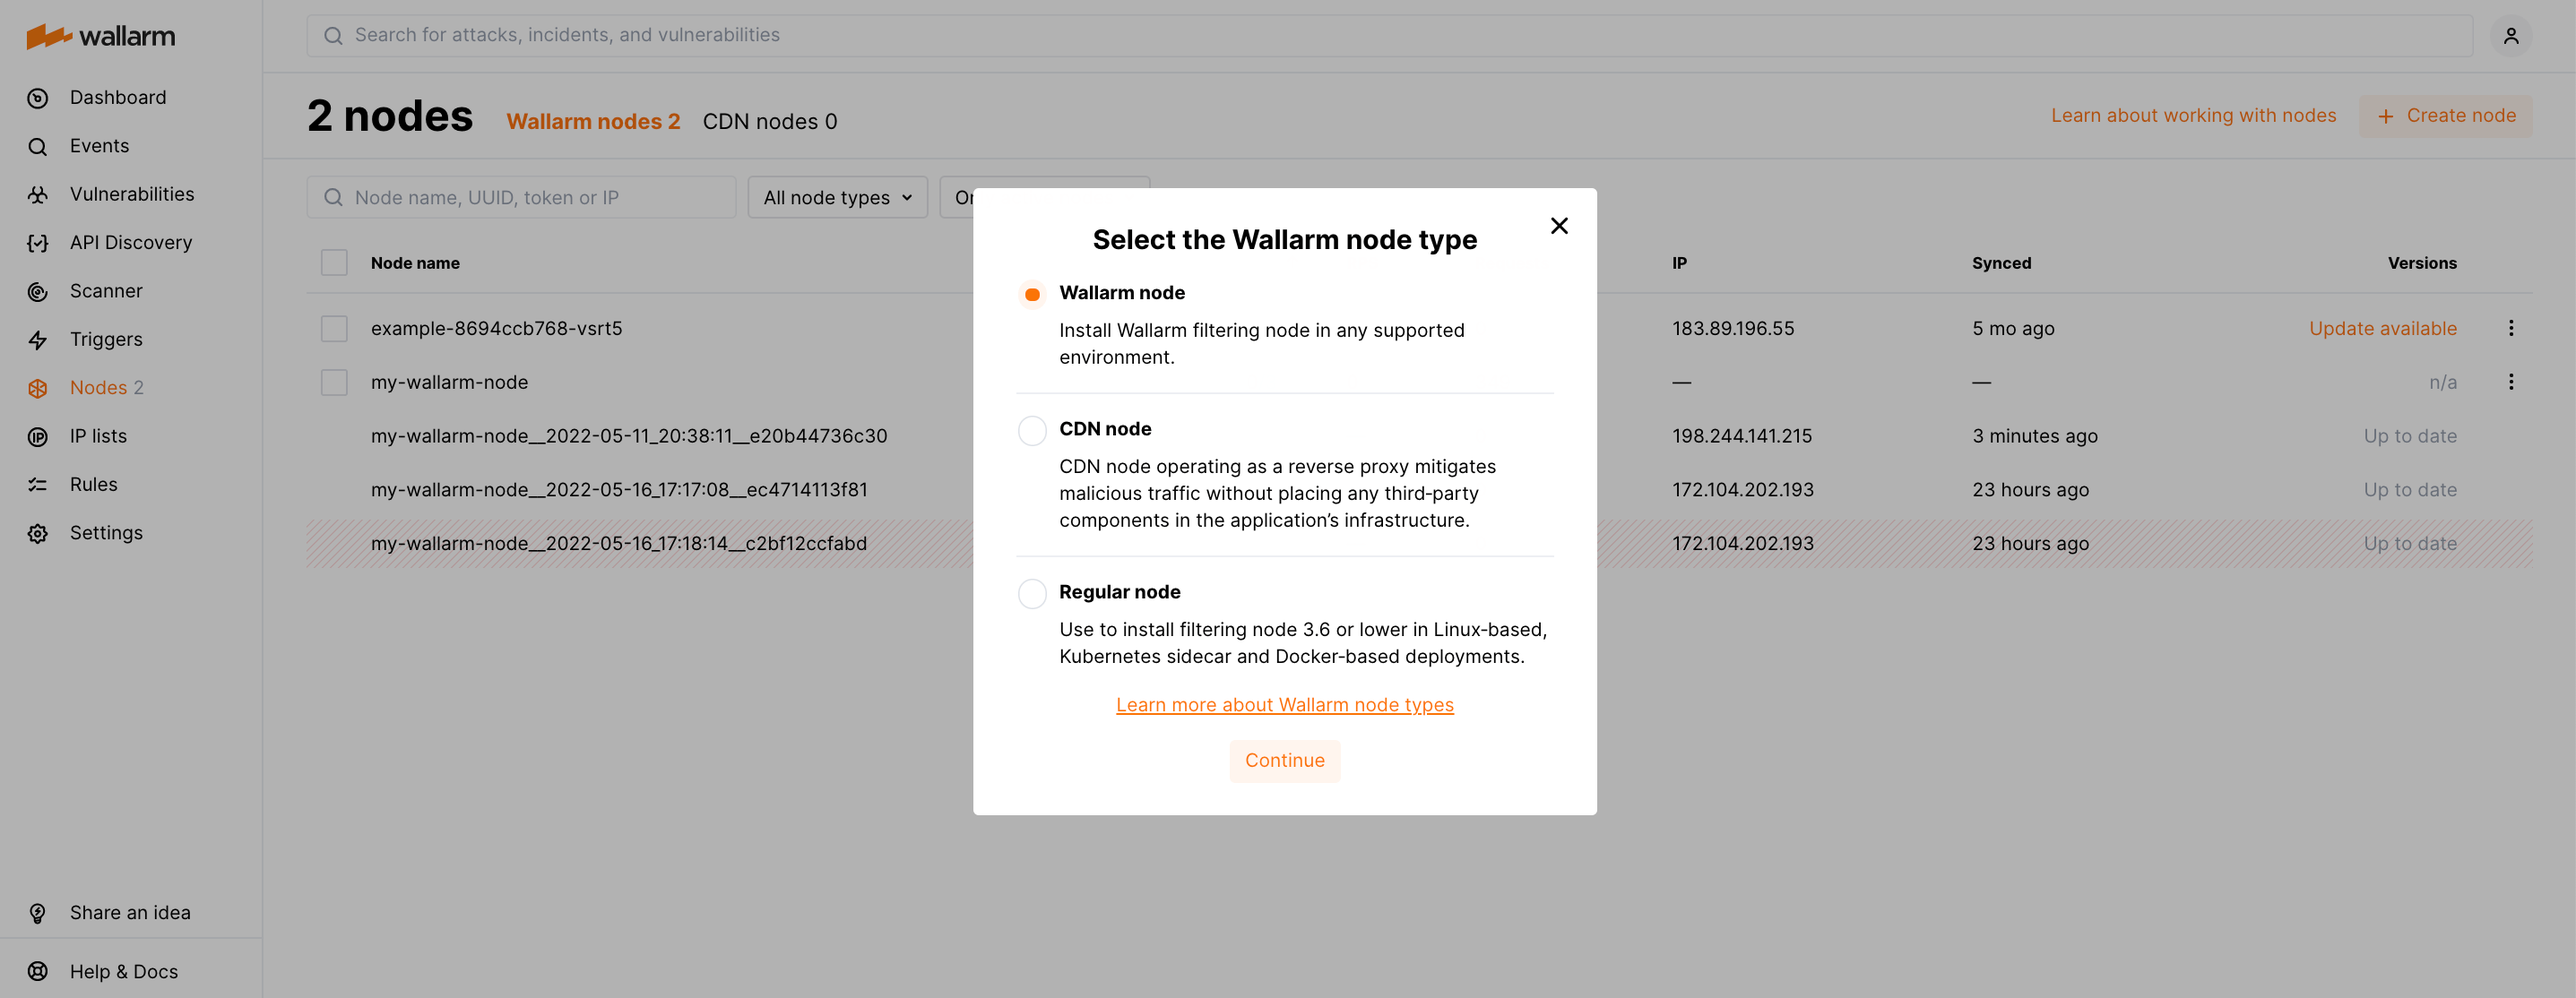
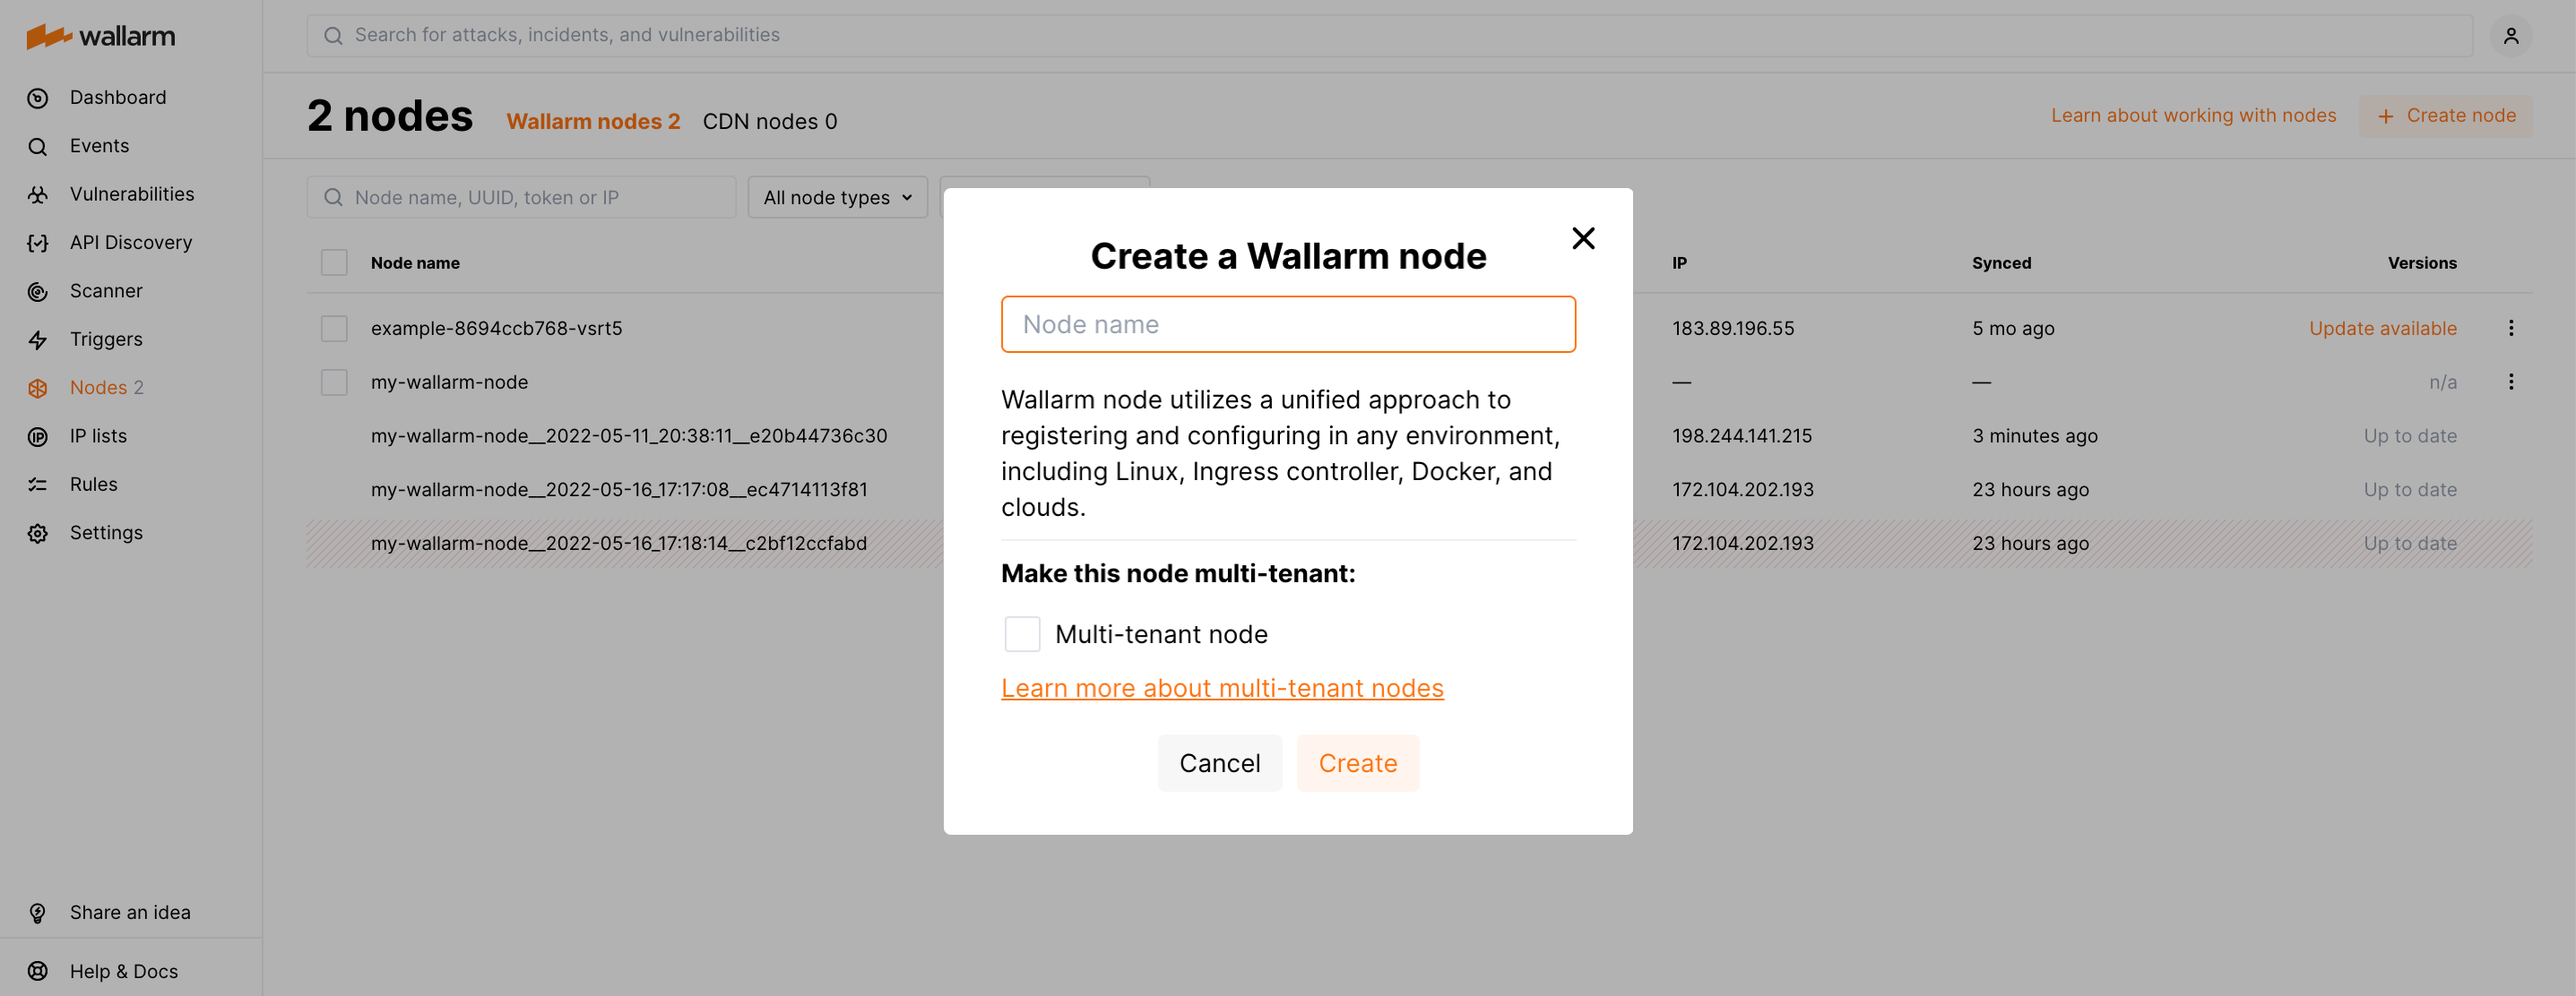
DOCS-1777 Remove regular node from creation dialog

diff --git a/docs/latest/user-guides/nodes/nodes.md b/docs/latest/user-guides/nodes/nodes.md
@@ -26,9 +26,10 @@ Wallarm node UI management options:
 
 To create a Wallarm node:
 
-1. Open Wallarm Console → **Nodes** in the [EU Cloud](https://my.wallarm.com/nodes) or [US Cloud](https://us1.my.wallarm.com/nodes) and create the node of the **Wallarm node** type.
+1. Open Wallarm Console → **Nodes** in the [EU Cloud](https://my.wallarm.com/nodes) or [US Cloud](https://us1.my.wallarm.com/nodes) and click **Create node**.
 
     ![!Wallarm node creation](../../images/user-guides/nodes/create-cloud-node.png)
+1. Set the node name and click **Create**.
 1. Copy the generated token.
 1. Deploy the created node to the [convenient environment](../../admin-en/supported-platforms.md) using the generated token.
 
